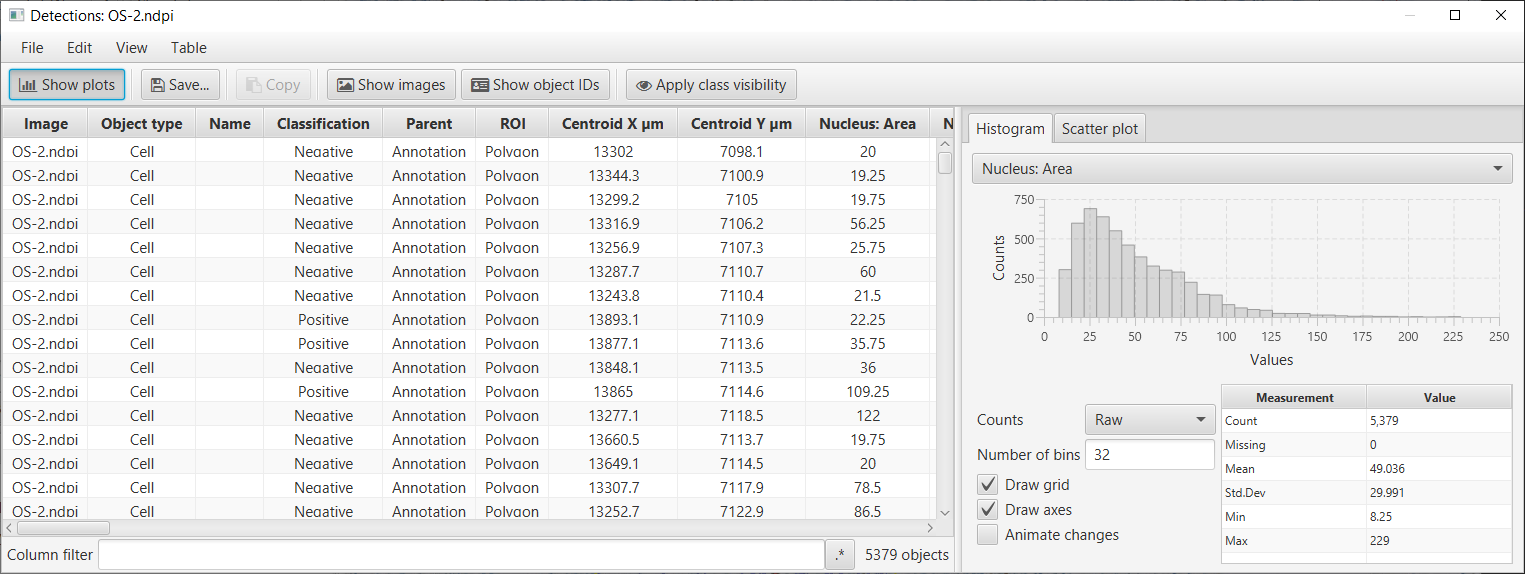
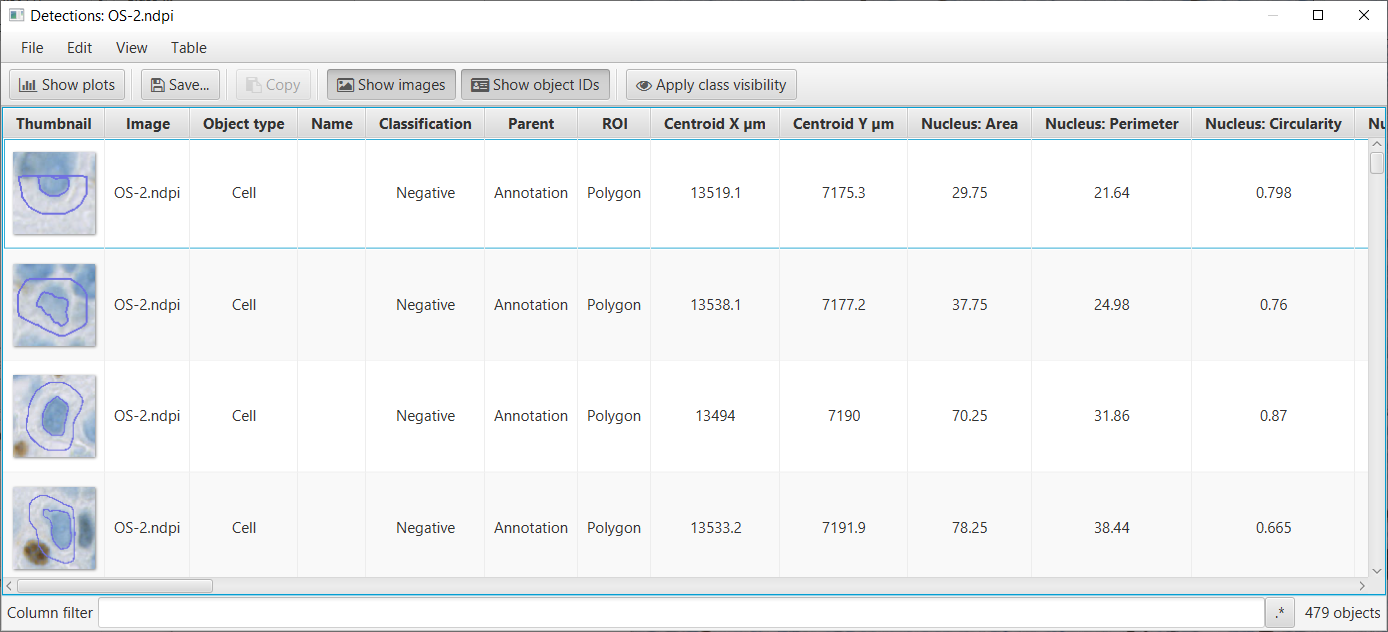
0.7 measurement tables

diff --git a/docs/tutorials/cell_detection.md b/docs/tutorials/cell_detection.md
@@ -120,19 +120,31 @@ One way is to double-click on individual cells to select them (make sure the *Mo
 
 Another way to view all the measurements of all the cells is by selecting {menuselection}`Measure --> Show detection measurements`; this command is also accessible from the *Measurement table* icon in the toolbar {{ icon_table }}.
 
-This should open up a results table with the measurements of all cells.
-From this, it is possible to generate histograms, sort columns, select individual cells (which will then be selected on the image) and to export the measurements to a CSV file for use elsewhere.
-
 :::{figure} images/ki67_detecting_results_detections.png
 :class: shadow-image full-image
 
-Cell detection results table
+Detection measurements table
+:::
+
+This should open up a results table with the measurements of all cells.
+It is possible to generate histograms, sort columns, select individual cells (which will then be selected on the image) and to export the measurements to a CSV file for use elsewhere. Toggle "Show images" button to hide the detection thumbnail for each row and select "Show Plots" to show the histogram tab.
+
+:::{figure} images/ki67_detecting_results_detections_area_plot.png
+:class: shadow-image full-image
+
+Detection measurements table with area histogram and thumbnails hidden
 :::
 
 One particular use of this table is to help determine what threshold is most appropriate to apply to the *Nucleus: DAB OD mean* measurements to determine if a cell is positive or not.
 Since this measurement is included in the table, a histogram can be generated for this value from all detected cells.
 Because most cells in this example are negative, the image below shows a large peak around 0 and a long tail to the right.
 A threshold of around 0.1 looks like it is likely to perform well (note, the threshold that was actually used was 0.2... therefore we should expect few, false positives, but we may have missed a small number of some true positive cells and instead classified them as negative).
+
+:::{figure} images/ki67_detecting_results_detections_OD_plot.png
+:class: shadow-image full-image
+
+Detection measurements table with Nucleus DAB OD mean histogram
+:::
 
 :::{note}
 The fact that a considerable number of the cells appear to have *negative* DAB OD staining (i.e. values below zero) -- which ought not to be possible -- in the histogram suggests that the stain separation has not been perfect.
